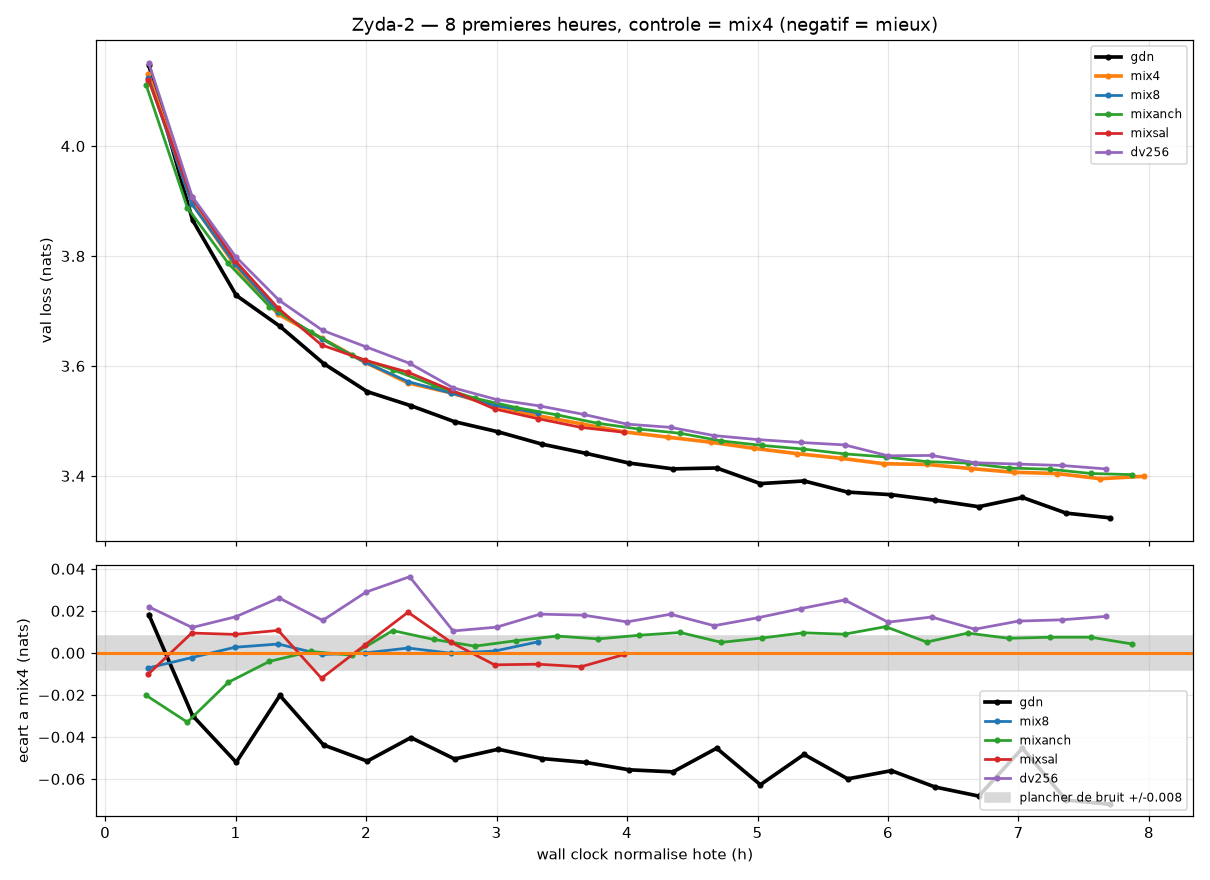
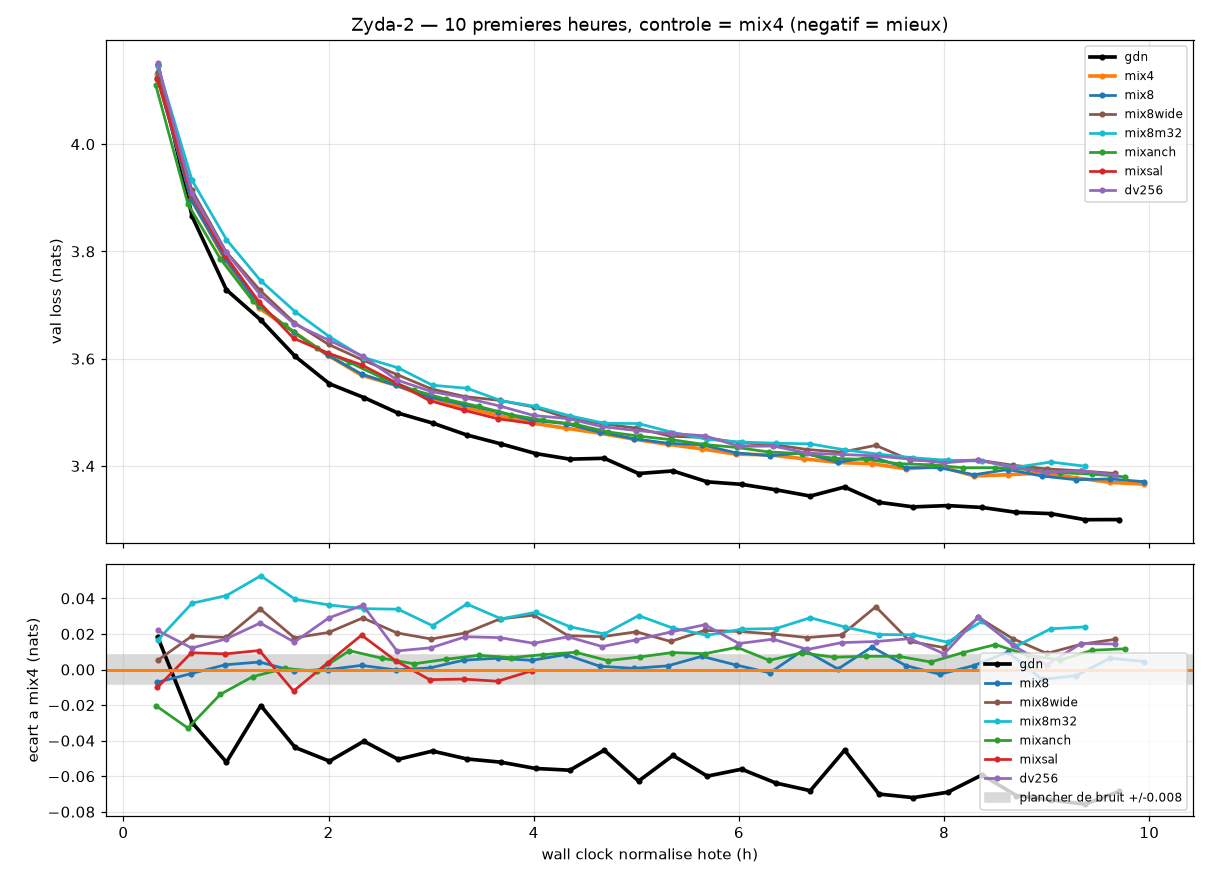
the M dose-response gets its own figure, because the two readings differ
mix8wide and mix8m32 differ in M alone -- same R=8, same post-norm, same
dv=512 -- and zyda_zoom is controlled on mix4, which cannot show it.
zyda_mdose draws the pair twice:

  M=32 minus M=128     0.98B   1.81B   2.64B   3.46B   4.29B
  at equal tokens     +0.0222 +0.0105 +0.0062 +0.0104 +0.0177
  at equal wall clock +0.0113 +0.0014 -0.0018 -0.0015 +0.0094

At equal tokens a quarter of the modes can only lose -- it is strictly
less machinery per token -- and it does, by about a noise floor. At equal
wall clock it runs 5.7% faster, sees more tokens, and the difference
spends four of six samples inside +/-0.008. That is the reading that
decides what a card buys, and it says four times fewer modes is close to
free. It is not monotone, though: both curves turn back up after 3.5B,
so this is not settled at 9 of 20 hours.

What the same measurement says about dv, against mix8 at equal wall
clock, is less kind:

              2.3h    4.7h    7.0h    9.4h
  mix8wide  +0.0266 +0.0169 +0.0180 +0.0155
  mix8m32   +0.0321 +0.0183 +0.0212 +0.0248

Both dv=512 arms are behind plain mix8 at every horizon, by two to four
times the noise floor. Widening the value costs 13% more parameters and
8% of throughput and has not paid for either. The M question and the dv
question have opposite answers so far: M is nearly free to cut, dv is
not free to add.

mixanch at 8.77B keeps splitting its layers, but less cleanly:
corr(n_eff, span) has fallen from -0.97 to -0.85 because L7 is migrating
[…]

diff --git a/campaign_plots.py b/campaign_plots.py
@@ -29,11 +29,11 @@ LOG = ROOT / "runs" / "zyda.jsonl"
 OUT = ROOT / "plot"          # where every figure in this repo has always gone
 
 # arm -> slot it ran on, so elapsed seconds can be put on one clock
-SLOT = {"z_dv256": 0, "z_mix8wide": 0, "z_gdn": 2, "z_mixanch": 3,
+SLOT = {"z_dv256": 0, "z_mix8wide": 0, "z_gdn": 2, "z_mix8m32": 2, "z_mixanch": 3,
         "z_mix4": 1, "z_mixsal": 1, "z_mix8": 1, "z_dv384": 1, "z_dsoft": 1}
-COL = {"z_gdn": "k", "z_dv256": "tab:purple", "z_mix4": "tab:orange", "z_mix8wide": "tab:brown",
+COL = {"z_gdn": "k", "z_dv256": "tab:purple", "z_mix4": "tab:orange", "z_mix8wide": "tab:brown", "z_mix8m32": "tab:cyan",
        "z_mix8": "tab:blue", "z_mixanch": "tab:green", "z_mixsal": "tab:red"}
-R_OF = {"z_mix4": 4, "z_mix8": 8, "z_mix8wide": 8, "z_mixanch": 4, "z_mixsal": 4, "z_dv256": 1}
+R_OF = {"z_mix4": 4, "z_mix8": 8, "z_mix8wide": 8, "z_mix8m32": 8, "z_mixanch": 4, "z_mixsal": 4, "z_dv256": 1}
 
 
 def host_factors() -> dict[str, float]:
@@ -166,13 +166,62 @@ def fig_omega(h, m="z_mixanch"):
     print(f"  corr(n_eff, span) = {np.corrcoef(o[:, 1], o[:, 2])[0, 1]:+.3f}")
 
 
+def fig_mdose(h, fac, ref="z_mix8wide", arm="z_mix8m32", base="z_mix8"):
+    """The M dose-response, which the mix4-controlled zoom cannot show.
+
+    mix8wide and mix8m32 differ in M alone: same R=8, same post-norm, same
+    dv=512. Drawn twice because the two readings disagree and only one of them
+    is the decision. At equal TOKENS a smaller M can only lose, since it is
+    strictly less machinery per token. At equal WALL CLOCK it also runs 5.7%
+    faster and sees more tokens, and wall clock is what a card costs.
+    """
+    if arm not in h or ref not in h:
+        print("M dose-response: both arms not present yet")
+        return
+    def xy(m, col):
+        v = [(r["tokens"] / 1e9 if col == 0 else r["train_s"] * fac[m] / 3600, r["val"])
+             for r in h[m] if r["train_s"] > 300]
+        return np.array(v, dtype=float).reshape(-1, 2)
+
+    fig, ax = plt.subplots(2, 2, figsize=(13, 8), gridspec_kw={"height_ratios": [2, 1]})
+    for col, xlab in ((0, "tokens vus (B)"), (1, "wall clock normalise hote (h)")):
+        a, b = xy(ref, col), xy(arm, col)
+        for m, d in ((base, xy(base, col)), (ref, a), (arm, b)):
+            if len(d):
+                ax[0][col].plot(d[:, 0], d[:, 1], label=m[2:], lw=2,
+                                marker="o", ms=3, color=COL[m])
+        lo, hi = max(a[0, 0], b[0, 0]), min(a[-1, 0], b[-1, 0])
+        g = np.linspace(lo, hi, 60)
+        ax[1][col].plot(g, np.interp(g, b[:, 0], b[:, 1]) - np.interp(g, a[:, 0], a[:, 1]),
+                        lw=2, color=COL[arm])
+        ax[1][col].axhline(0, color=COL[ref], lw=2)
+        ax[1][col].axhspan(-0.008, 0.008, color="0.85", zorder=0,
+                           label="plancher de bruit +/-0.008")
+        ax[0][col].set_ylabel("val loss (nats)")
+        ax[1][col].set_ylabel("M=32 moins M=128 (nats)")
+        ax[1][col].set_xlabel(xlab)
+        ax[0][col].set_title(f"a {'tokens appaires' if col == 0 else 'WALL CLOCK egal'}")
+        for a_ in (ax[0][col], ax[1][col]):
+            a_.grid(alpha=.3); a_.legend(fontsize=8)
+    fig.suptitle("dose-reponse sur M a dv=512 — negatif = moins de modes est MIEUX")
+    fig.tight_layout(); fig.savefig(OUT / "zyda_mdose.png", dpi=110)
+    print(f"saved {OUT.name}/zyda_mdose.png")
+
+    for col, lab in ((0, "tokens"), (1, "wall clock")):
+        a, b = xy(ref, col), xy(arm, col)
+        g = np.linspace(max(a[0, 0], b[0, 0]), min(a[-1, 0], b[-1, 0]), 6)
+        d = np.interp(g, b[:, 0], b[:, 1]) - np.interp(g, a[:, 0], a[:, 1])
+        print(f"  a {lab:11s} " + "  ".join(f"{x:.2f}:{y:+.4f}" for x, y in zip(g, d)))
+
+
 def main() -> None:
     h, fac = load(), host_factors()
     print("arms: " + ", ".join(f"{m[2:]}({len(h[m])})" for m in h))
-    fig_zoom(h, fac, ["z_gdn", "z_mix4", "z_mix8", "z_mix8wide", "z_mixanch", "z_mixsal", "z_dv256"],
-             hours=8.0)
+    fig_zoom(h, fac, ["z_gdn", "z_mix4", "z_mix8", "z_mix8wide", "z_mix8m32",
+                      "z_mixanch", "z_mixsal", "z_dv256"], hours=10.0)
     fig_router(h)
     fig_omega(h)
+    fig_mdose(h, fac)
 
 
 if __name__ == "__main__":
